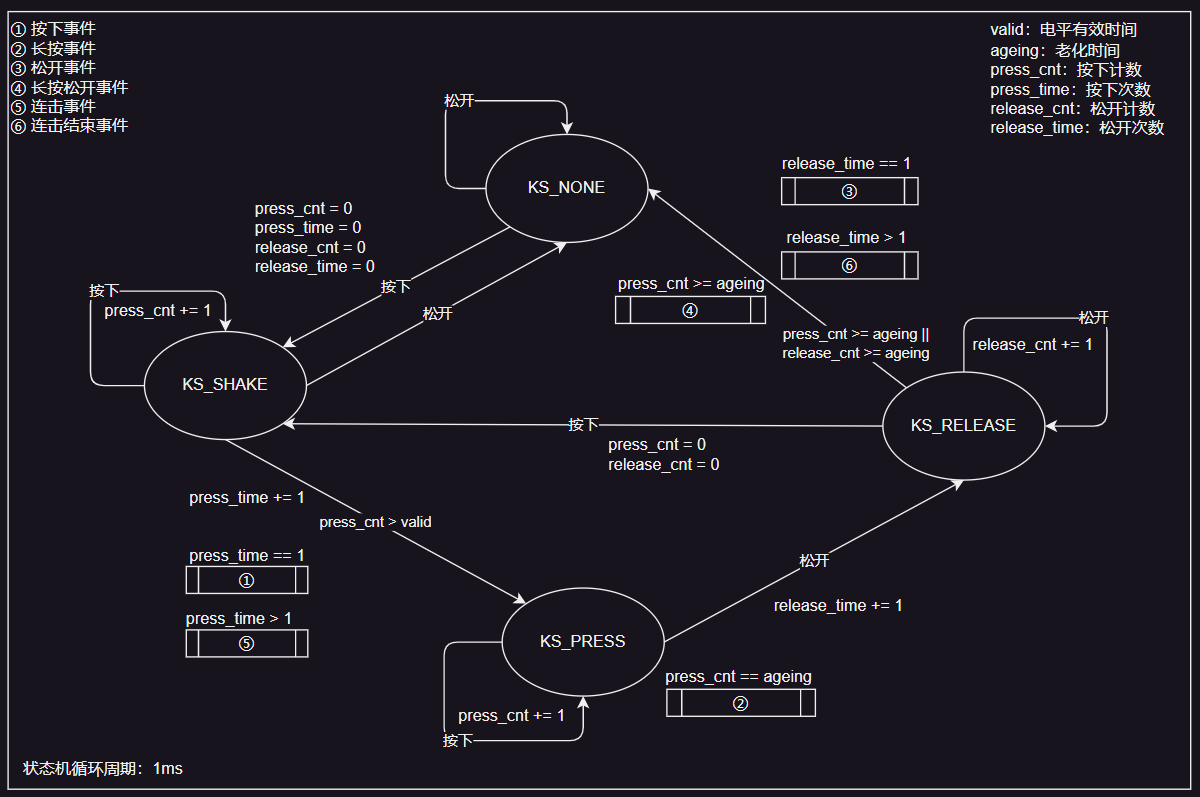
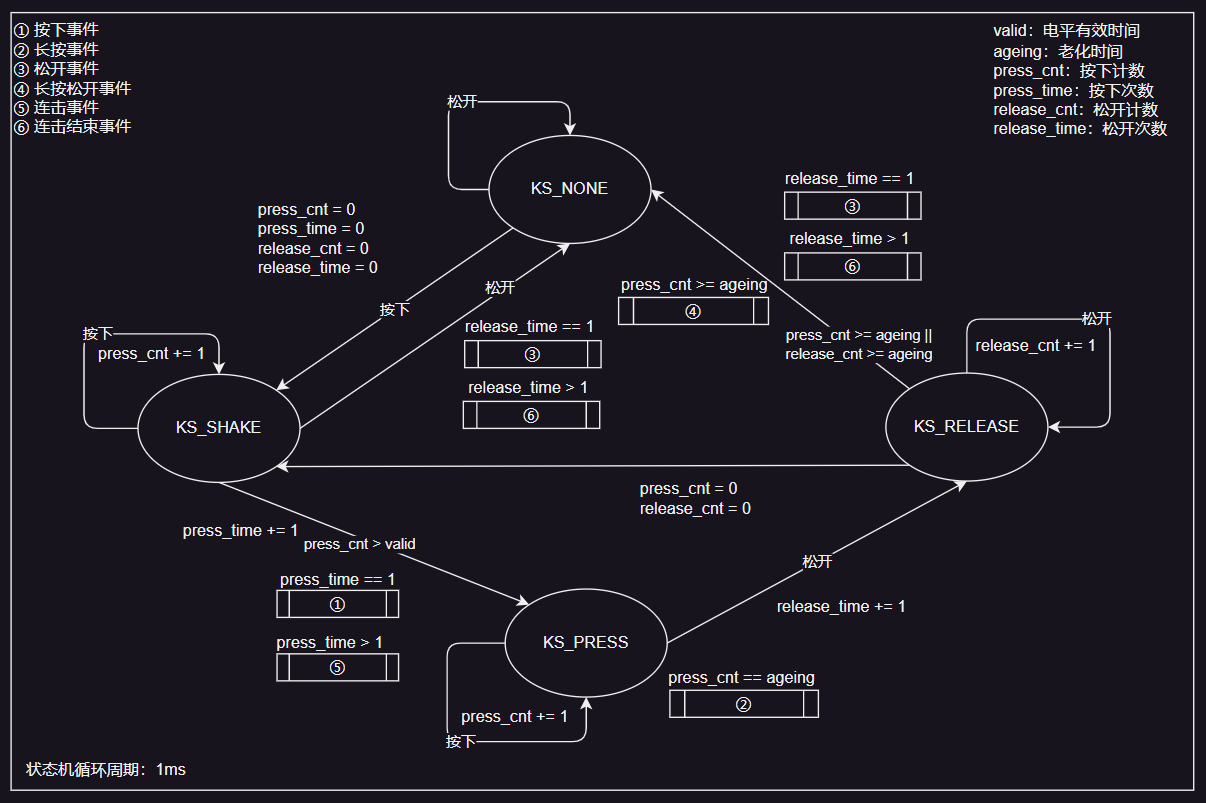
使检测连击遇到抖动时不丢失按键释放事件

diff --git a/src/combo_key.c b/src/combo_key.c
@@ -102,6 +102,11 @@ KEY_EVENT combo_key_event_check(KEY *key) {
                     }
                 }
             } else {
+                if (key->release_time == 1) {
+                    key->event = KE_RELEASE;
+                } else if (key->release_time > 1) {
+                    key->event = KE_COMBO_RELEASE;
+                }
                 key->status = KS_NONE;
             }
         } break;
@@ -128,7 +133,7 @@ KEY_EVENT combo_key_event_check(KEY *key) {
                 key->status = KS_SHAKE;
             } else {
                 key->release_cnt += 1;
-                if (key->release_cnt == key->ageing) {
+                if (key->release_cnt >= key->ageing) {
                     if (key->release_time == 1) {
                         key->event = KE_RELEASE;
                     } else {
